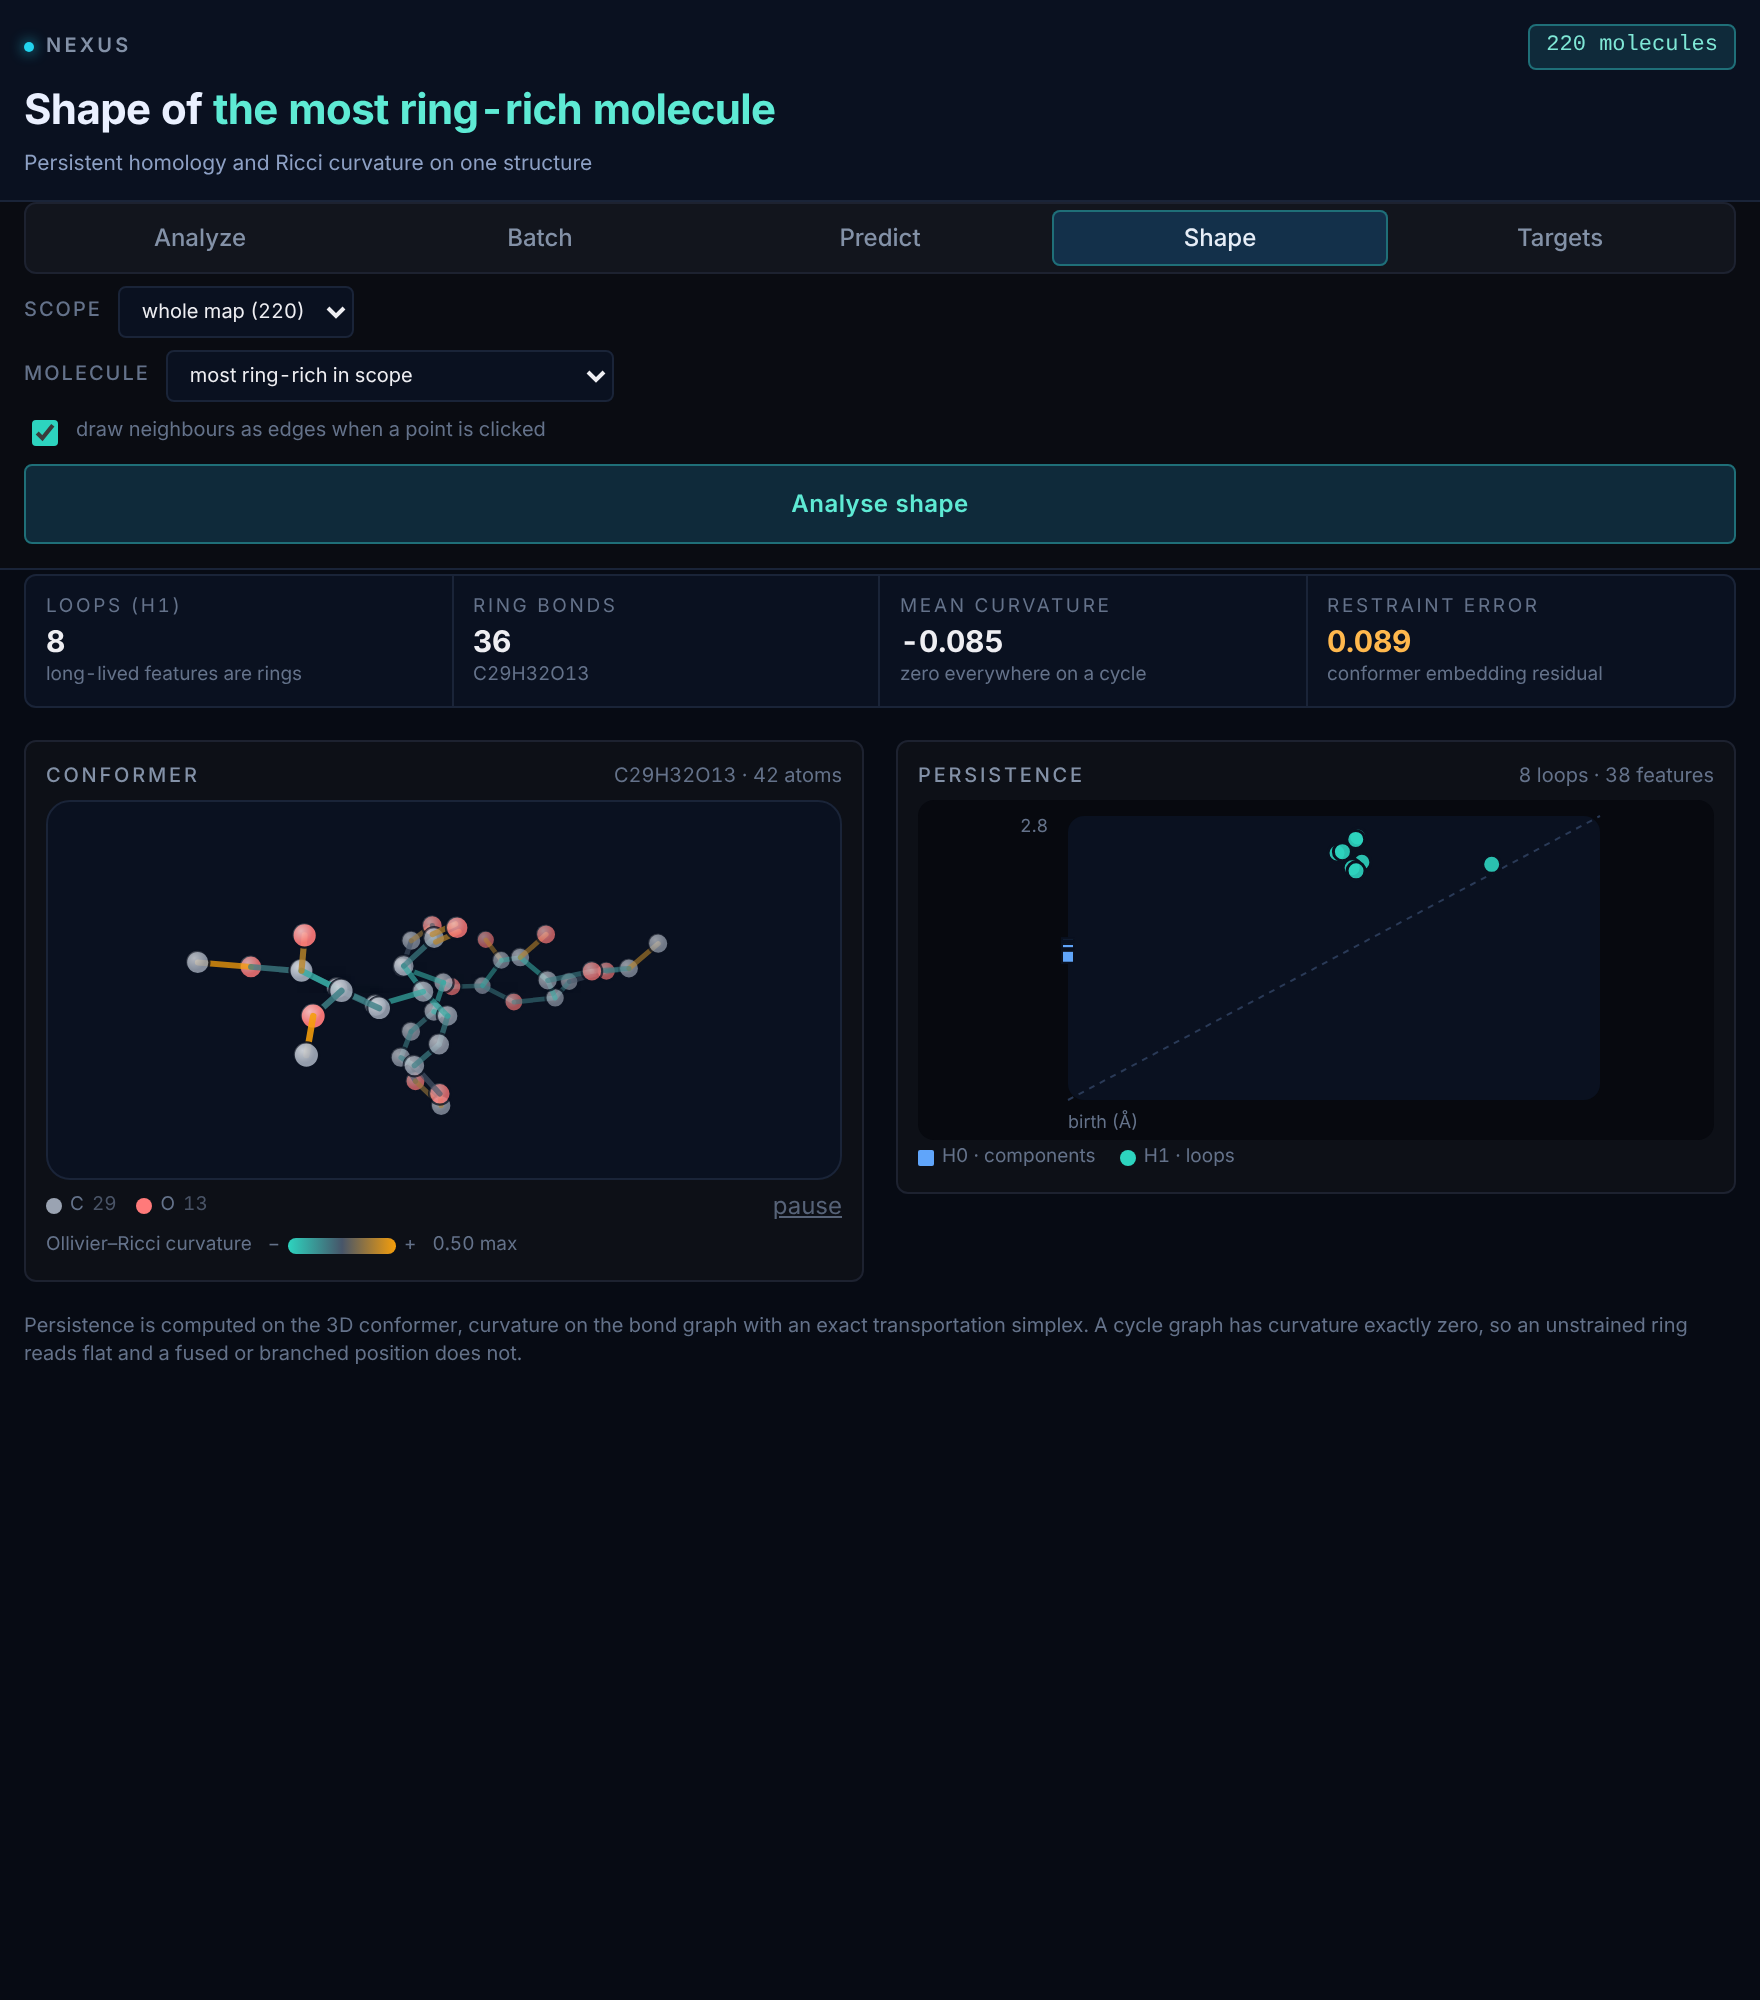
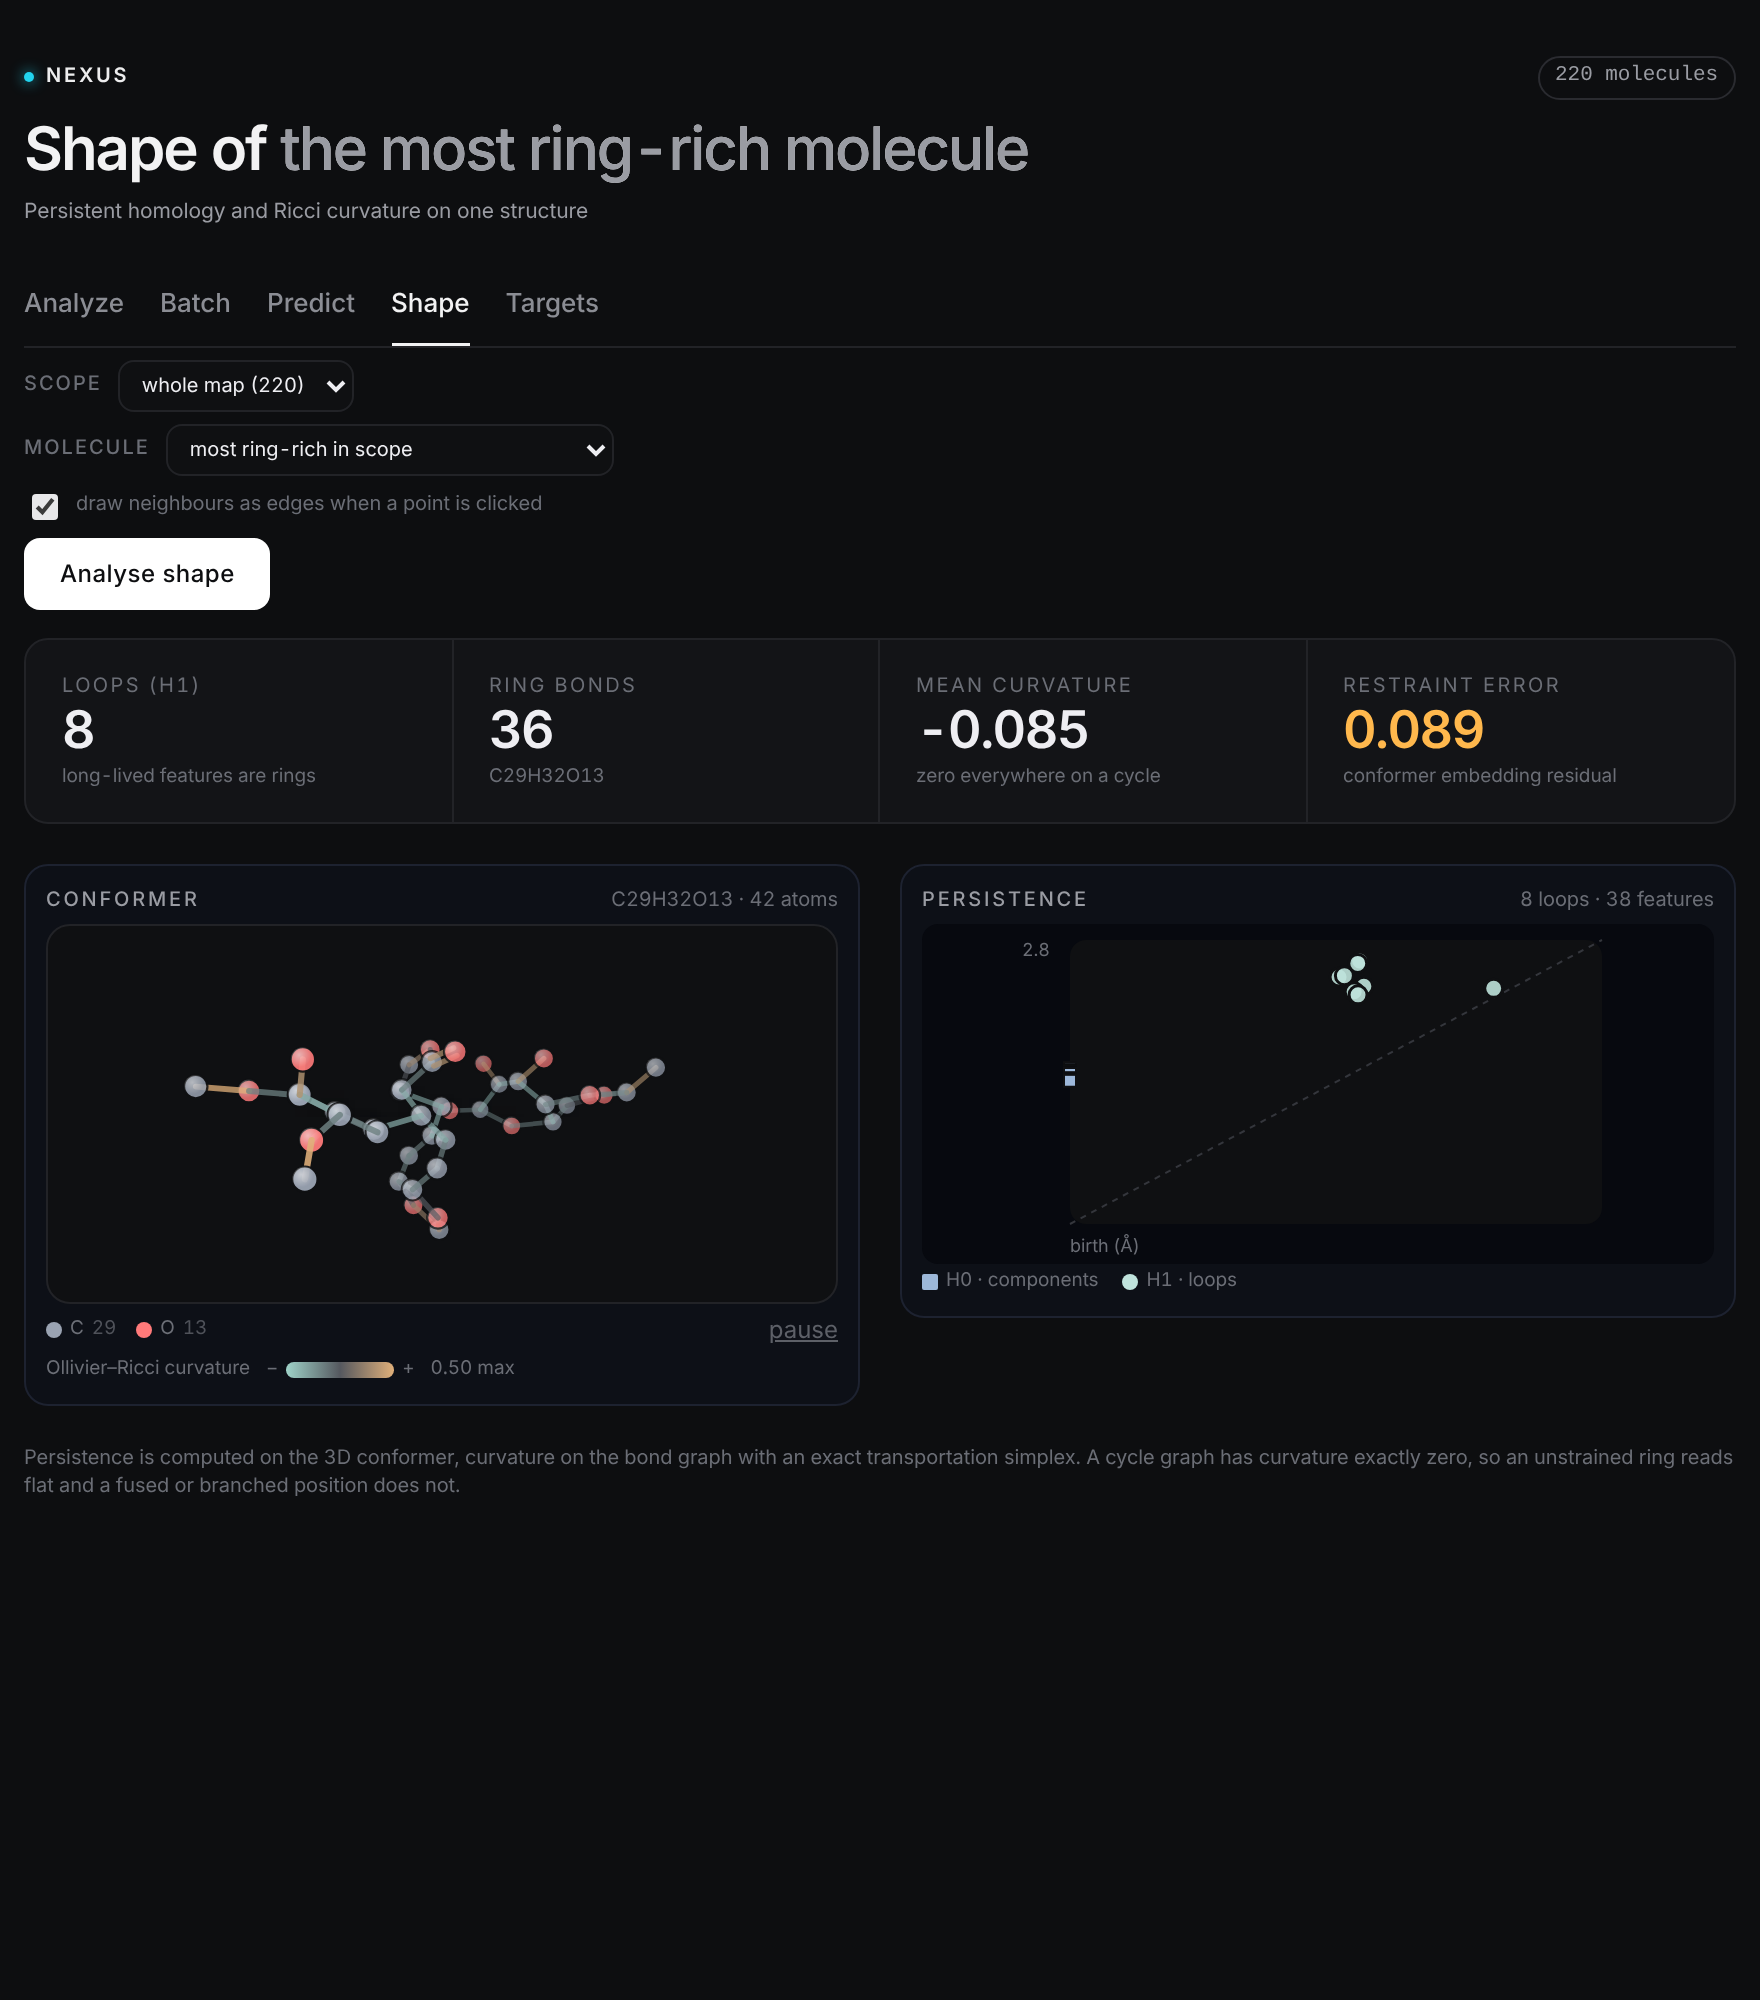
Panel: minimal Mantis-site theme (neutral near-black, white primary action, underline tabs, display type, colour only for data)

diff --git a/extension/src/panel.css b/extension/src/panel.css
@@ -659,3 +659,47 @@ body {
 .nexus-body tr:hover td { background: #0e1a2c; }
 .nexus-run { color: #5eead4 !important; background: #0f2a3a !important; }
 .nexus-tabs button[aria-pressed="true"] { background: #13304a !important; color: #e6edf7 !important; box-shadow: inset 0 0 0 1px #1f6f78 !important; }
+
+/* ── v0.7 · Mantis layer ───────────────────────────────────────────────────
+   After mantis.csail.mit.edu: near-black, neutral greys, one white primary
+   action, tight display type, small uppercase eyebrows, generous space.
+   Colour is reserved for data. */
+.nexus-root {
+    --nx-canvas: #0d0e10; --nx-panel: #131417; --nx-panel-raised: #0f1012; --nx-chrome: #131417;
+    --nx-border: #222327; --nx-foreground: #ededee; --nx-muted: #9a9ca3; --nx-accent: #e8e8ea;
+    --nx-radius-panel: 12px; --nx-radius-control: 8px;
+    background: #0d0e10; letter-spacing: -0.003em;
+}
+.nexus-root header, .nexus-hero { background: transparent; border-bottom: 0; padding-top: 28px; padding-bottom: 20px; }
+.nexus-title { font-family: var(--nx-font-sans); font-weight: 600; font-size: 30px; line-height: 1.08; letter-spacing: -0.035em; color: #f2f2f3; }
+.nexus-title-key, .nexus-mark { color: #f2f2f3 !important; }
+.nexus-title-key { color: #9a9ca3 !important; font-weight: 500; }
+.nexus-eyebrow { color: #ededee; font-weight: 600; font-size: 10px; letter-spacing: .14em; }
+.nexus-sub { color: #9a9ca3; font-size: 13px; line-height: 1.55; max-width: 60ch; }
+.nexus-live { background: #7fd1c2; width: 6px; height: 6px; }
+.nexus-hero-pill, .nexus-chip { background: transparent; color: #9a9ca3; border: 1px solid #2a2b30; border-radius: 999px; font-family: var(--nx-font-mono); font-size: 10.5px; }
+.nexus-tabs { background: transparent; border: 0; border-bottom: 1px solid #222327; border-radius: 0; padding: 0; gap: 18px; justify-content: flex-start; }
+.nexus-tabs button { background: transparent !important; color: #8b8d94 !important; border-radius: 0; padding: 10px 0; box-shadow: none !important; flex: 0 0 auto; font-size: 13px; }
+.nexus-tabs button[aria-pressed="true"] { color: #f2f2f3 !important; box-shadow: inset 0 -1.5px 0 #f2f2f3 !important; }
+.nexus-run { background: #f2f2f3 !important; color: #0d0e10 !important; border: 0; border-radius: 8px; font-weight: 500; box-shadow: none; width: auto; justify-self: start; padding: 9px 18px; }
+.nexus-run:hover:not(:disabled) { background: #ffffff !important; }
+.nexus-row select, .nexus-row input[type="number"] { background: #131417; border: 1px solid #2a2b30; border-radius: 8px; }
+.nexus-stack { gap: 20px; }
+.nexus-card { background: #131417; border: 1px solid #222327; border-radius: 12px; padding: 18px 18px 16px; }
+.nexus-card:hover { border-color: #2e3035; }
+.nexus-card-head { font-size: 10px; letter-spacing: .14em; color: #ededee; font-weight: 600; border-bottom: 0; padding-bottom: 0; margin-bottom: 14px; }
+.nexus-card-meta { color: #6b6e76; font-family: var(--nx-font-mono); font-size: 10.5px; letter-spacing: 0; }
+.nexus-tiles { border: 1px solid #222327; border-radius: 12px; background: #131417; }
+.nexus-tiles > * { border-right: 1px solid #222327 !important; padding: 16px 18px !important; }
+.nexus-tiles > * > :first-child { color: #8b8d94; font-size: 10px; letter-spacing: .12em; }
+.nexus-tiles .tabular-nums, .nexus-tiles strong, .nexus-tiles b { font-size: 26px; font-weight: 600; letter-spacing: -0.03em; color: #f2f2f3; }
+.nexus-families button { background: transparent; color: #c9cacd; border: 1px solid #2a2b30; border-radius: 999px; }
+.nexus-hint { color: #8b8d94; }
+.nexus-body th { color: #6b6e76; border-bottom-color: #222327; }
+.nexus-body td { border-bottom-color: #1b1c20; }
+.nexus-body tr:hover td { background: #17181b; }
+.nexus-tabs button[aria-pressed="true"] { background: transparent !important; }
+.nexus-tabs, .nexus-controls, .nexus-root > header, .nexus-head { background: transparent !important; }
+.nexus-controls { border-bottom: 0 !important; box-shadow: none !important; }
+.nexus-tabs { border: 0 !important; border-bottom: 1px solid #222327 !important; border-radius: 0 !important; }
+.nexus-sub { color: #9a9ca3 !important; }

diff --git a/mantis/src/app/components/panels/nexus/theme.ts b/mantis/src/app/components/panels/nexus/theme.ts
@@ -57,14 +57,14 @@ const DARK: NexusTheme = {
     // so it inherits none of the host's custom properties; copying keeps the
     // panel in step with the chrome around it, and any drift is a one-line
     // change here against src/styles/design-tokens.css.
-    bg: '#070b14',                                  // --workspace-canvas
-    surface: '#0b1220',                             // --workspace-panel
-    surfaceInset: '#0a1120',                        // --workspace-panel-raised
-    line: '#1a2438',                                // --workspace-border
-    lineStrong: '#2a3a57',                          // --workspace-border-strong
+    bg: '#0d0e10',                                  // --workspace-canvas
+    surface: '#131417',                             // --workspace-panel
+    surfaceInset: '#0f1012',                        // --workspace-panel-raised
+    line: '#222327',                                // --workspace-border
+    lineStrong: '#34363c',                          // --workspace-border-strong
     text: '#eeeef2',                                // --workspace-foreground
-    text2: '#8391a7',                               // --workspace-muted
-    text3: '#64728a',                               // between muted and border-strong
+    text2: '#9a9ca3',                               // --workspace-muted
+    text3: '#6b6e76',                               // between muted and border-strong
     grid: 'rgba(255, 255, 255, 0.06)',
     // Chrome and data marks are not the same job. Mantis's workspace tones
     // are accents for chrome, and as a categorical set on #191a1f they fail
@@ -72,17 +72,17 @@ const DARK: NexusTheme = {
     // dE 6.7 protan). Data marks therefore use a set validated against this
     // surface -- worst all-pairs CVD dE 9.4, normal-vision 20.9 -- while the
     // accent, gradient and status colours below stay Mantis's own.
-    series: ['#2dd4bf', '#f59e0b', '#60a5fa'],
+    series: ['#bfe3dc', '#d9b88a', '#9db8d9'],
     // Single hue, dim to bright on a dark surface, anchored on the azure the
     // workspace accents with.
-    ramp: ['#0d2a33', '#0f3d47', '#11585f', '#14787a', '#1fa192', '#4fd1b8', '#b3f5e6'],
-    diverging: { low: '#2dd4bf', mid: '#475569', high: '#f59e0b' },
-    accent: '#2dd4bf',                              // --workspace-accent
+    ramp: ['#24302f', '#2f4744', '#3f625d', '#5a837c', '#7fa8a0', '#acccc5', '#e6f2ef'],
+    diverging: { low: '#9fd3c9', mid: '#55585f', high: '#e0b07a' },
+    accent: '#e8e8ea',                              // --workspace-accent
     good: '#3ed68c',                                // --workspace-tone-green
     warn: '#ffb84d',                                // --workspace-tone-amber
     crit: '#ff7aa8',                                // --workspace-tone-rose
-    gradient: 'linear-gradient(90deg, #0f2a3a 0%, #12384b 100%)',
-    tooltipBg: 'rgba(10, 17, 32, 0.97)',
+    gradient: 'linear-gradient(90deg, #f2f2f3 0%, #f2f2f3 100%)',
+    tooltipBg: 'rgba(19, 20, 23, 0.97)',
 };
 
 const LIGHT: NexusTheme = {
